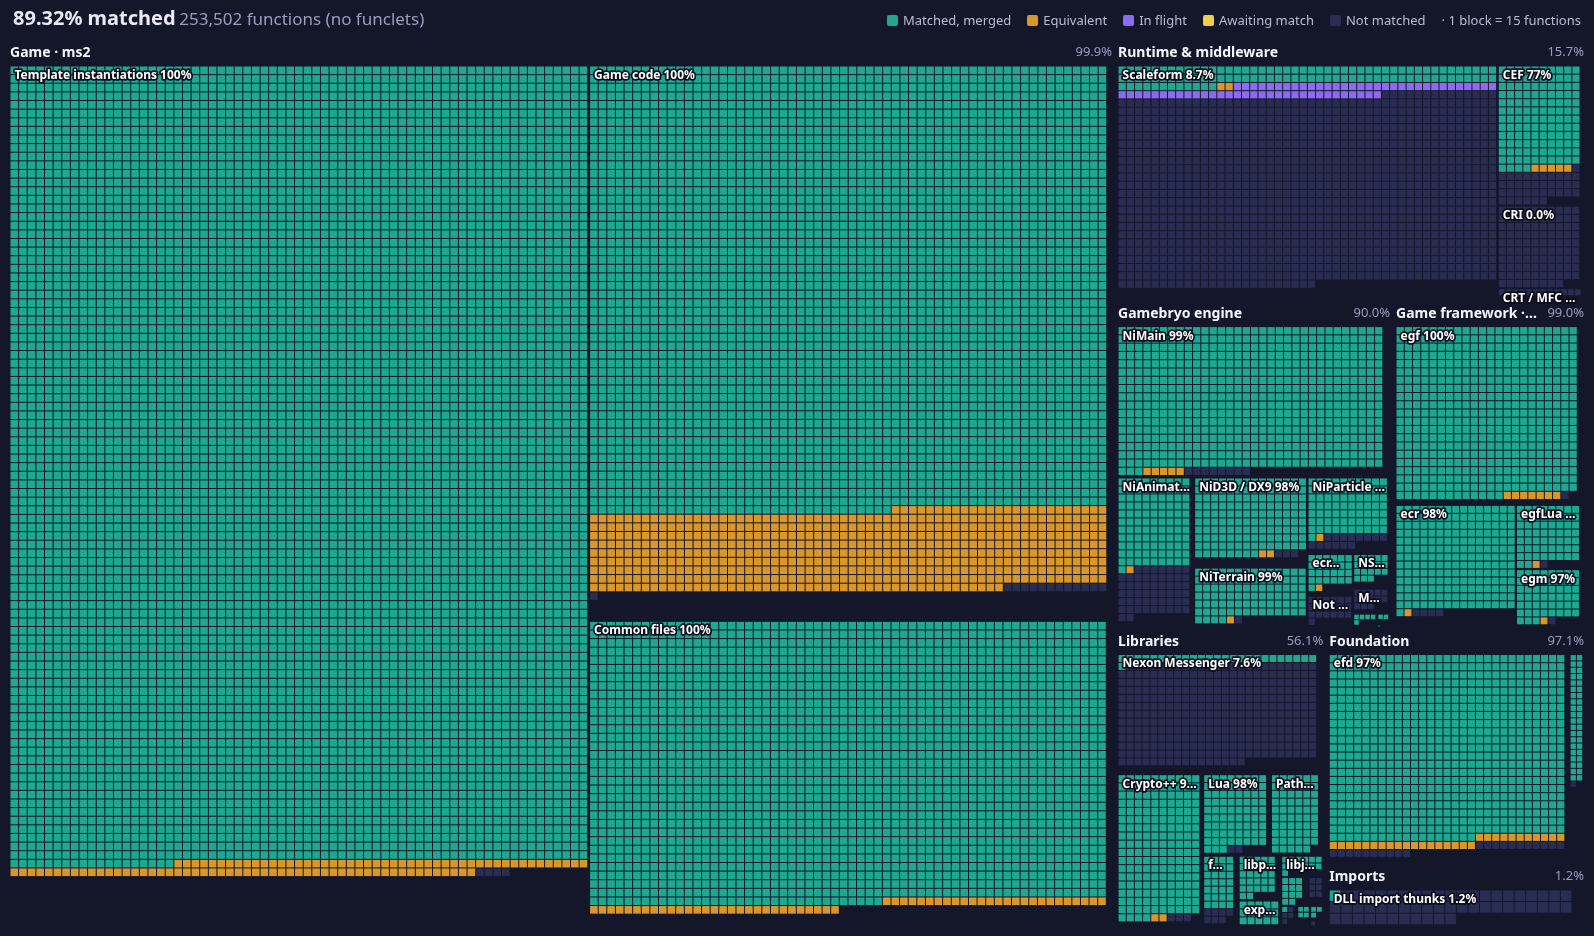
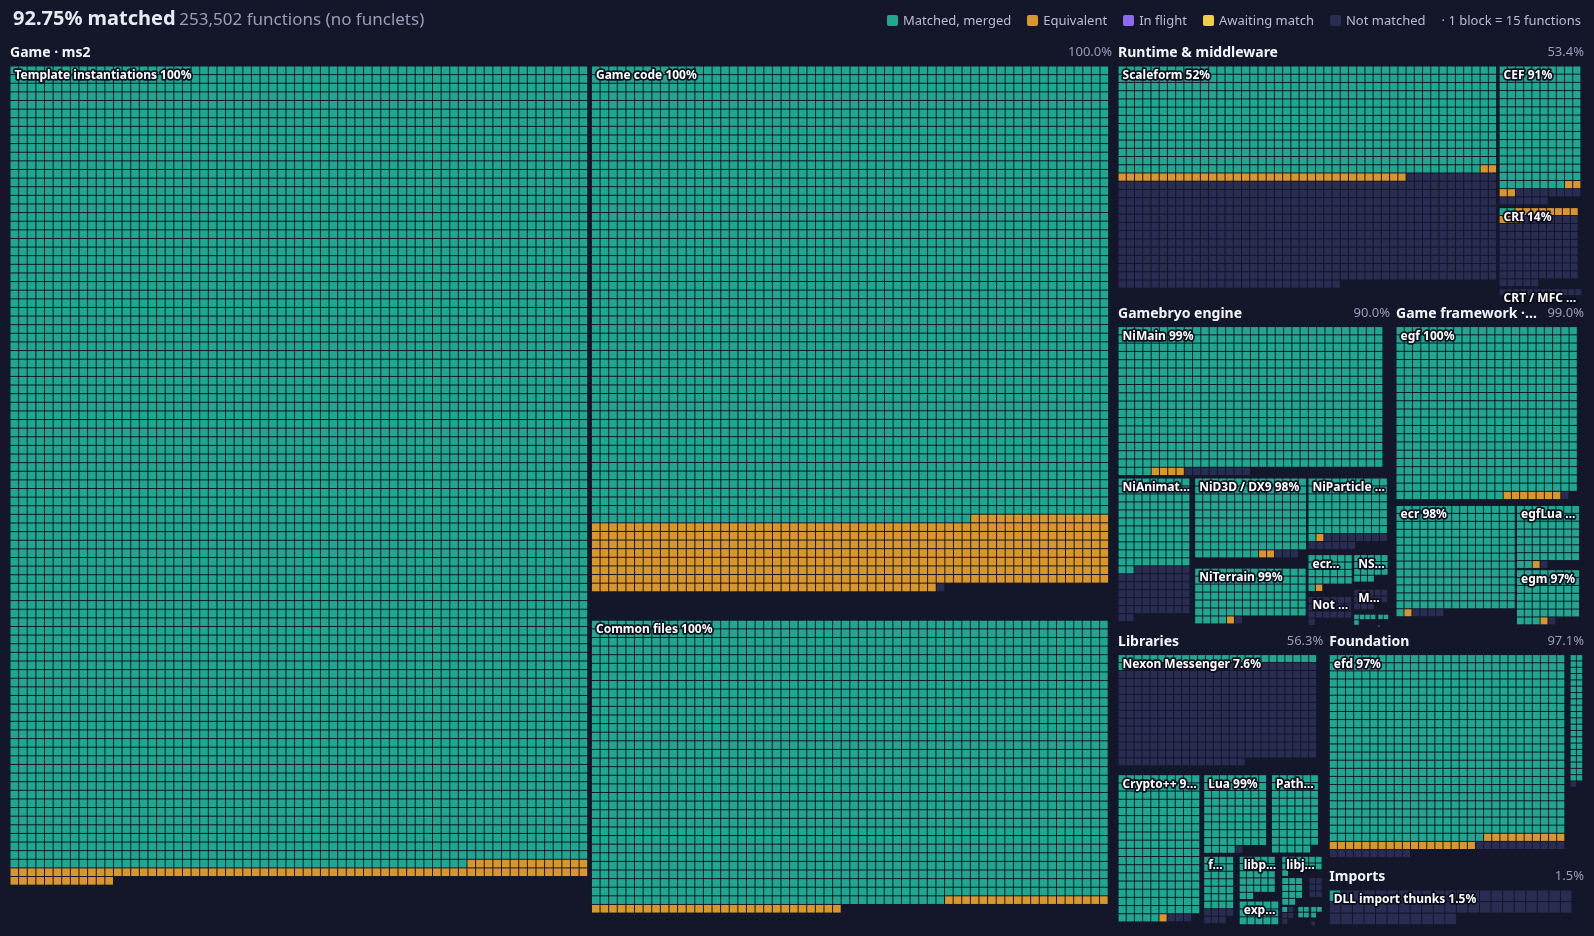
README: refresh progress image and table

diff --git a/README.md b/README.md
@@ -25,14 +25,14 @@ Merged totals by area (functions in the original executable; regenerated on each
 <!-- progress:start -->
 | Area | Functions | Matched | Equivalent | Done |
 |---|---:|---:|---:|---:|
-| Game · ms2 | 179,369 | 168,470 (93.9%) | 10,653 (5.9%) | 99.9% |
-| Runtime & middleware | 22,418 | 3,421 (15.3%) | 101 (0.5%) | 15.7% |
-| Gamebryo engine | 16,620 | 14,816 (89.1%) | 137 (0.8%) | 90.0% |
-| Game framework · egf | 11,596 | 11,346 (97.8%) | 137 (1.2%) | 99.0% |
-| Libraries | 11,528 | 6,447 (55.9%) | 24 (0.2%) | 56.1% |
-| Foundation | 11,189 | 10,430 (93.2%) | 437 (3.9%) | 97.1% |
-| Imports | 782 | 8 (1.0%) | 1 (0.1%) | 1.2% |
-| **Total** | **253,502** | 214,938 (84.8%) | 11,490 (4.5%) | 89.3% |
+| Game · ms2 | 179,367 | 170,080 (94.8%) | 9,266 (5.2%) | 100.0% |
+| Runtime & middleware | 22,418 | 11,185 (49.9%) | 777 (3.5%) | 53.4% |
+| Gamebryo engine | 16,622 | 14,840 (89.3%) | 117 (0.7%) | 90.0% |
+| Game framework · egf | 11,598 | 11,351 (97.9%) | 135 (1.2%) | 99.0% |
+| Libraries | 11,528 | 6,461 (56.0%) | 25 (0.2%) | 56.3% |
+| Foundation | 11,187 | 10,435 (93.3%) | 431 (3.9%) | 97.1% |
+| Imports | 782 | 11 (1.4%) | 1 (0.1%) | 1.5% |
+| **Total** | **253,502** | 224,363 (88.5%) | 10,752 (4.2%) | 92.7% |
 <!-- progress:end -->
 
 ## Layout
